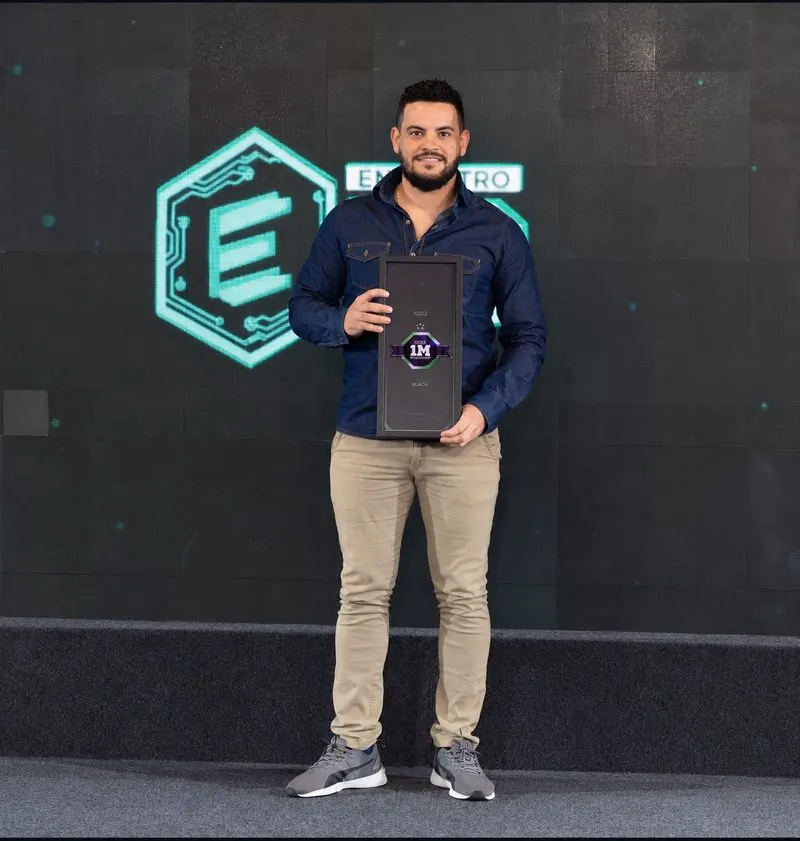
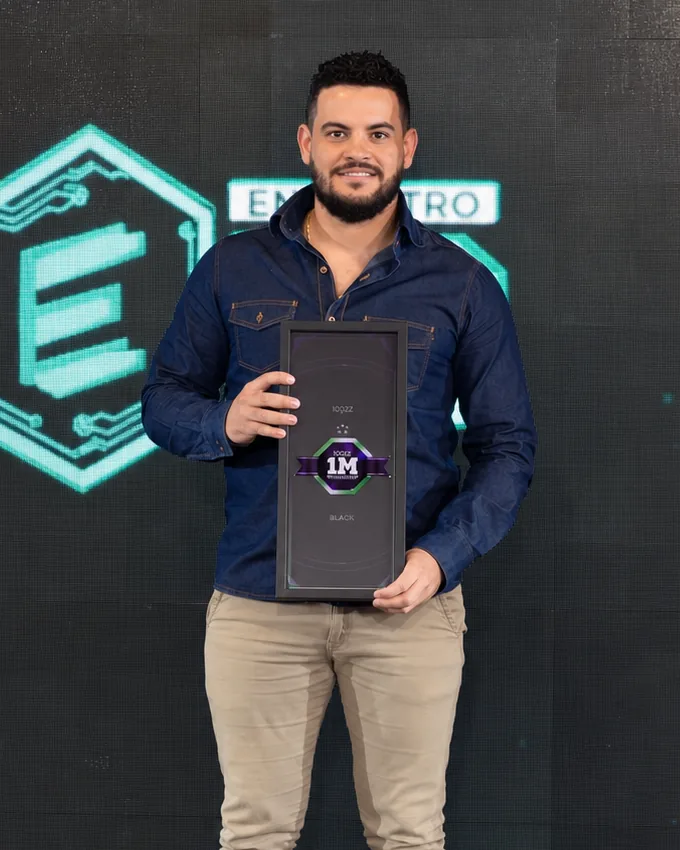
Minha história: foto recortada (rosto e placa 1M em destaque), legenda menor e faixa de números

diff --git a/index.html b/index.html
@@ -256,7 +256,11 @@
   .hist-grid{display:grid;grid-template-columns:minmax(0,420px) minmax(0,1fr);gap:48px;align-items:center}
   .hist-foto{margin:0;position:relative}
   .hist-foto img{display:block;width:100%;height:auto;border-radius:22px;border:1px solid var(--line);box-shadow:0 24px 70px rgba(37,99,235,.3)}
-  .hist-foto figcaption{position:absolute;left:14px;bottom:14px;right:14px;display:flex;flex-direction:column;padding:10px 14px;border-radius:14px;background:rgba(10,1,24,.82);backdrop-filter:blur(6px);border:1px solid var(--line)}
+  .hist-foto figcaption{position:absolute;left:14px;bottom:14px;display:flex;flex-direction:column;padding:8px 14px;border-radius:12px;background:rgba(10,1,24,.82);backdrop-filter:blur(6px);border:1px solid var(--line);line-height:1.3}
+  .hist-nums{list-style:none;display:grid;grid-template-columns:repeat(3,1fr);gap:10px;margin:6px 0 20px;padding:0}
+  .hist-nums li{display:flex;flex-direction:column;gap:2px;padding:12px 14px;border-radius:14px;border:1px solid var(--line);background:var(--bg)}
+  .hist-nums strong{font-size:1.35rem;color:var(--text);line-height:1.1}
+  .hist-nums span{font-size:.8rem;color:var(--muted);line-height:1.3}
   .hist-foto figcaption span{color:var(--muted);font-size:.85rem}
   .hist-txt h2{text-align:left;margin-bottom:18px}
   .hist-txt p{color:var(--muted);font-size:1.05rem;margin-bottom:14px}
@@ -267,6 +271,10 @@
     .hist-foto{max-width:380px;margin:0 auto}
     .hist-txt{text-align:left}
     .hist-txt .tag{display:table;margin:0 auto 16px}
+    .hist-nums{gap:8px}
+    .hist-nums li{padding:10px}
+    .hist-nums strong{font-size:1.1rem}
+    .hist-nums span{font-size:.72rem}
     .hist-txt h2{font-size:1.5rem}
     .hist-txt p{font-size:1rem}
     .hist-cta .btn{width:100%;text-align:center}
@@ -449,7 +457,7 @@ document.addEventListener('click',function(e){
     <div class="wrap">
       <div class="hist-grid">
         <figure class="hist-foto">
-          <img src="img/vagner.webp" alt="Vagner, fundador da Amazolé, segurando uma placa de premiação em um evento" width="800" height="841" loading="lazy">
+          <img src="img/vagner.webp" srcset="img/vagner-480.webp 480w, img/vagner.webp 680w" sizes="(max-width: 820px) 380px, 420px" alt="Vagner, fundador da Amazolé, segurando a placa de premiação 1M em um evento" width="680" height="850" loading="lazy" decoding="async">
           <figcaption><strong>Vagner</strong><span>Fundador da Amazolé</span></figcaption>
         </figure>
         <div class="hist-txt">
@@ -457,7 +465,12 @@ document.addEventListener('click',function(e){
           <h2>Eu saí do CLT e construí a Amazolé. Agora quero te levar junto.</h2>
           <p>Sou o <strong>Vagner</strong>. Há 4 anos criei a Amazolé com um objetivo bem claro: <strong>sair do CLT</strong>.</p>
           <p>De lá para cá foram muitos desafios, com altos e baixos. Eu aprendi vendendo, errando e ajustando, até chegar onde estamos hoje.</p>
-          <p>Hoje a marca tem toda a estrutura <strong>validada</strong>: vendas, estoque e branding. Já passamos de <strong>12 milhões em vendas pelo WhatsApp</strong>.</p>
+          <p>Hoje a marca tem toda a estrutura <strong>validada</strong>: vendas, estoque e branding.</p>
+          <ul class="hist-nums" aria-label="Números da Amazolé">
+            <li><strong>4 anos</strong><span>construindo a marca</span></li>
+            <li><strong>+12 mi</strong><span>em vendas pelo WhatsApp</span></li>
+            <li><strong>100%</strong><span>estrutura validada</span></li>
+          </ul>
           <p>Agora não estamos atrás só de afiliados. Estamos atrás de <strong>verdadeiros consultores da nossa marca</strong>. Vamos pegar tudo o que já funcionou para a gente e <strong>replicar para você</strong>.</p>
           <p class="hist-cta"><a class="btn lg" href="#" data-checkout>Quero ser consultor · R$ 27,00</a></p>
           <p class="cta-note" role="status"></p>
